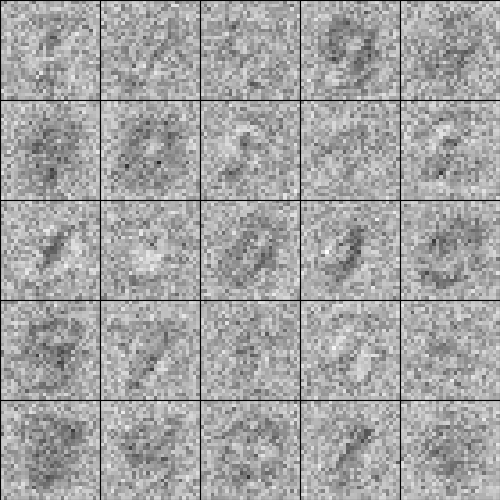
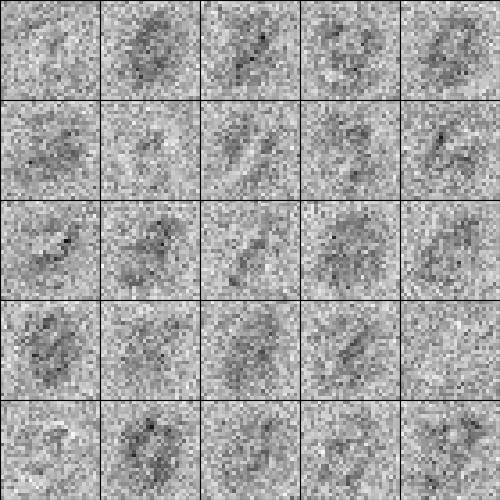
lab4

diff --git a/Lab4/run.py b/Lab4/run.py
@@ -16,7 +16,7 @@ if __name__ == "__main__":
     print ("\nStarting a Restricted Boltzmann Machine..")
 
     BATCH_SIZE = 20
-    EPOCHS = 3
+    EPOCHS = 2
     RBM = False
     PLOT_ERRORS = False
 
@@ -56,25 +56,25 @@ if __name__ == "__main__":
     
     ''' greedy layer-wise training '''
 
-    dbn.train_greedylayerwise(vis_trainset=train_imgs, lbl_trainset=train_lbls, n_iterations=1)
+    dbn.train_greedylayerwise(vis_trainset=train_imgs, lbl_trainset=train_lbls, n_iterations=EPOCHS)
 
     dbn.recognize(train_imgs, train_lbls)
     
     dbn.recognize(test_imgs, test_lbls)
 
-    for digit in range(10):
-        digit_1hot = np.zeros(shape=(1,10))
-        digit_1hot[0, digit] = 1
-        dbn.generate(digit_1hot, name="rbms")
+    # for digit in range(10):
+    #     digit_1hot = np.zeros(shape=(1,10))
+    #     digit_1hot[0, digit] = 1
+    #     dbn.generate(digit_1hot, name="rbms")
 
     ''' fine-tune wake-sleep training '''
 
-    dbn.train_wakesleep_finetune(vis_trainset=train_imgs, lbl_trainset=train_lbls, n_iterations=10000)
-
-    dbn.recognize(train_imgs, train_lbls)
-    
-    dbn.recognize(test_imgs, test_lbls)
-    
+    # dbn.train_wakesleep_finetune(vis_trainset=train_imgs, lbl_trainset=train_lbls, n_iterations=10000)
+    #
+    # dbn.recognize(train_imgs, train_lbls)
+    #
+    # dbn.recognize(test_imgs, test_lbls)
+    #
     for digit in range(10):
         digit_1hot = np.zeros(shape=(1,10))
         digit_1hot[0,digit] = 1

diff --git a/Lab4/dbn.py b/Lab4/dbn.py
@@ -44,7 +44,7 @@ class DeepBeliefNet():
 
         self.batch_size = batch_size
 
-        self.n_gibbs_recog = 15
+        self.n_gibbs_recog = 20
 
         self.n_gibbs_gener = 200
 
@@ -76,11 +76,18 @@ class DeepBeliefNet():
         # NOTE : inferring entire train/test set may require too much compute memory (depends on your system).
         # In that case, divide into mini-batches.
 
+        out_1 = self.rbm_stack['vis--hid'].get_h_given_v_dir(vis)[1]
+        out_2 = self.rbm_stack['hid--pen'].get_h_given_v_dir(out_1)[1]
+
+        v = np.concatenate((out_2, lbl), axis=1)
+
         for _ in range(self.n_gibbs_recog):
-            pass
+            h = self.rbm_stack['pen+lbl--top'].get_h_given_v(v)[1]
+            v = self.rbm_stack['pen+lbl--top'].get_v_given_h(h)[1]
 
-        predicted_lbl = np.zeros(true_lbl.shape)
-
+        predicted_lbl = v[:, -len(lbl[0]):]
+        print(predicted_lbl.shape)
+        exit()
         print("accuracy = %.2f%%" % (100. * np.mean(np.argmax(predicted_lbl, axis=1) == np.argmax(true_lbl, axis=1))))
 
         return
